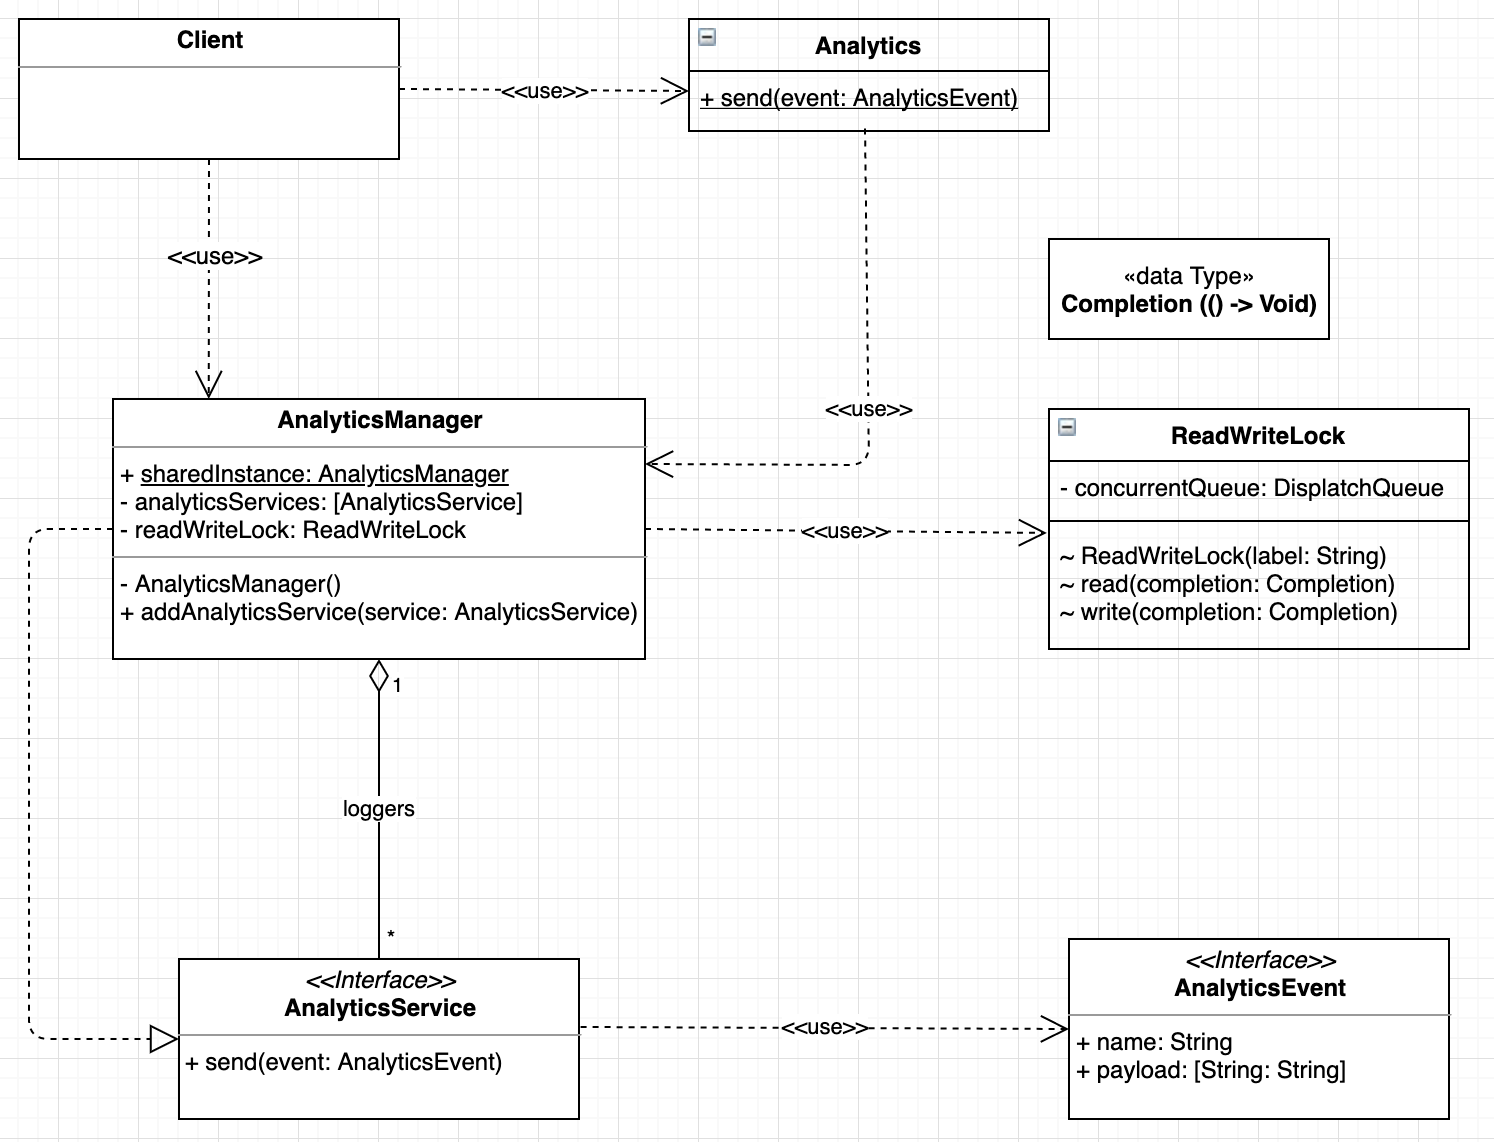
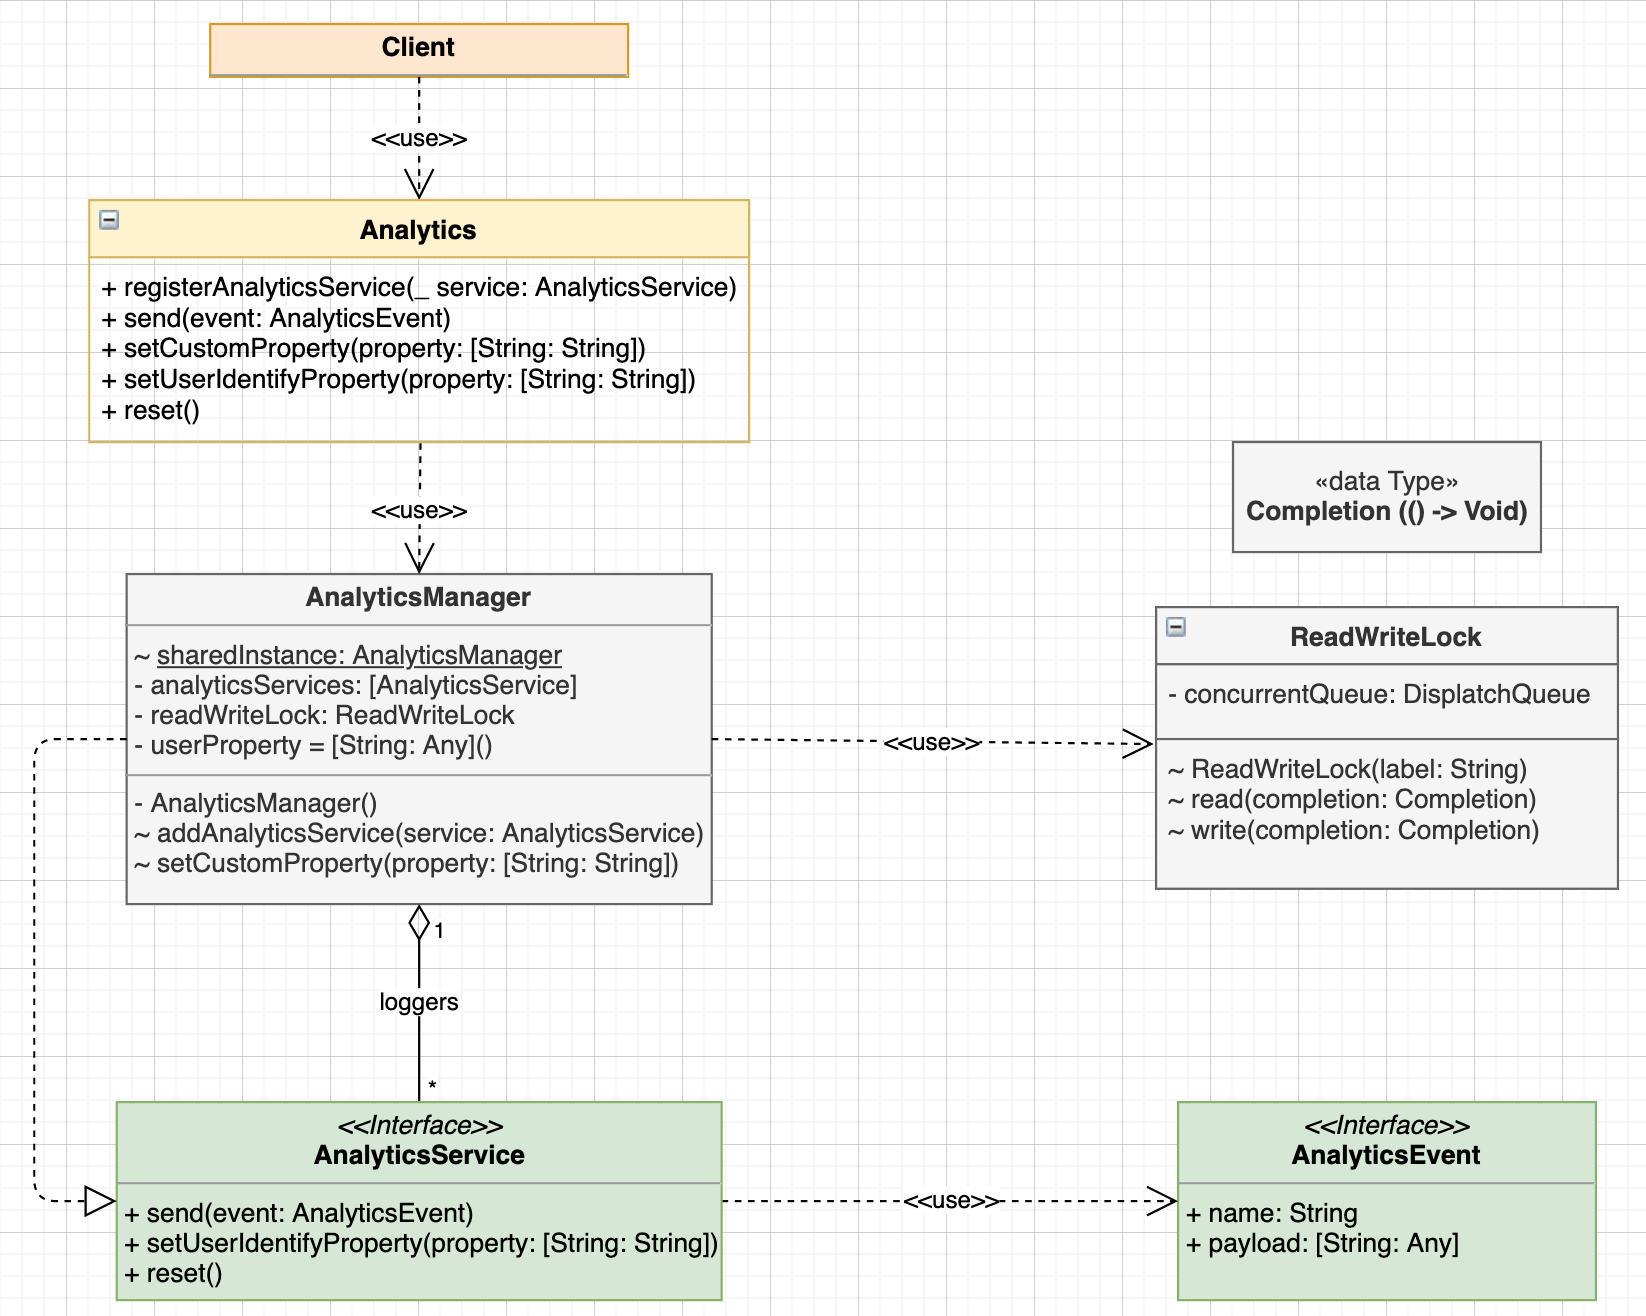
feat: support identify user and custom properties for tracking (#6)
Support identify user, custom properties to help tracking more personalized data

BREAKING CHANGE:
`Client` only interact with the framework via `Analytics` instead of mix of `Analytics` and `AnalyticsManager` as previous versions

diff --git a/DLAnalytics/Impl/AnalyticsManager.swift b/DLAnalytics/Impl/AnalyticsManager.swift
@@ -8,12 +8,15 @@
 
 import Foundation
 
-// MARK: - Open Class
-public final class AnalyticsManager: AnalyticsService {
-    public static let sharedInstance = AnalyticsManager()
+// MARK: - AnalyticsManager
+final class AnalyticsManager {
+	
+	static var sharedInstance = AnalyticsManager()
     
     private(set) var analyticsServices: [AnalyticsService] = []
     private let readWriteLock = ReadWriteLock(label: "DLAnalyticsLock")
+	
+	private var userProperty = [String: Any]()
     
     private init() {}
     
@@ -21,22 +24,65 @@ public final class AnalyticsManager: AnalyticsService {
     ///
     /// - parameter service: An implementation of AnalyticsService.
     /// - returns: Void.
-    public func addAnalyticsService(_ service: AnalyticsService) {
+    func addAnalyticsService(_ service: AnalyticsService) {
         readWriteLock.write {
             analyticsServices.append(service)
         }
     }
-    
-    /// Send an Event to Analytics service.
-    /// This function will invoke all its childens to perform sending event.
-    ///
-    /// - returns: Void
-    public func send(event: AnalyticsEvent) {
-        var services = [AnalyticsService]()
-        readWriteLock.read {
-            services = self.analyticsServices
-        }
-        
-        services.forEach { $0.send(event: event) }
-    }
+	
+	/// To support personalization better we need to add more general properties that share with all events
+	func setCustomizedProperty(_ property: [String: Any]) {
+		userProperty.merge(dict: property)
+	}
+}
+
+// MARK: - CombineEvent
+public struct CombineEvent: AnalyticsEvent {
+	public var name: String
+	public var payload: [String: Any]
+}
+
+// MARK: - AnalyticsService Implementation
+extension AnalyticsManager: AnalyticsService {
+	/// To support identify the user we need to help set these properties as global properties
+	func setUserIdentifyProperty(_ property: [String: String]) {
+		var services = [AnalyticsService]()
+		readWriteLock.read {
+			services = self.analyticsServices
+		}
+		
+		services.forEach {
+			$0.setUserIdentifyProperty(property)
+		}
+	}
+	
+	/// Reset all data related to the user e.g user logout
+	func reset() {
+		var services = [AnalyticsService]()
+		readWriteLock.read {
+			services = self.analyticsServices
+		}
+		
+		services.forEach {
+			$0.reset()
+		}
+	}
+	
+	/// Send an Event to Analytics service.
+	/// This function will invoke all its childens to perform sending event.
+	///
+	/// - returns: Void
+	func send(event: AnalyticsEvent) {
+		var services = [AnalyticsService]()
+		readWriteLock.read {
+			services = self.analyticsServices
+		}
+		
+		services.forEach {
+			var combinedPayload = userProperty
+			combinedPayload.merge(dict: event.payload)
+			let combinedEvent = CombineEvent(name: event.name, payload: combinedPayload)
+			$0.send(event: combinedEvent)
+		}
+	}
 }

diff --git a/DLAnalytics/Model/Analytics.swift b/DLAnalytics/Model/Analytics.swift
@@ -9,8 +9,28 @@
 import Foundation
 
 public enum Analytics {
+	/// Register an imlementation of Analytics Services as consumer e.g MixPanel, Firebase, Instabug, etc..
+	public static func registerAnalyticsService(_ service: AnalyticsService) {
+		AnalyticsManager.sharedInstance.addAnalyticsService(service)
+	}
+	
     /// Allow Client to send an event via.
     public static func send(event: AnalyticsEvent) {
         AnalyticsManager.sharedInstance.send(event: event)
     }
+	
+	/// To support personalization better we need to add more general properties that share with all events
+	public static func setCustomizedProperty(_ property: [String: Any]) {
+		AnalyticsManager.sharedInstance.setCustomizedProperty(property)
+	}
+	
+	/// To support identify the user we need to help set these properties as global properties
+	public static func setUserIdentifyProperty(_ property: [String: String]) {
+		AnalyticsManager.sharedInstance.setUserIdentifyProperty(property)
+	}
+	
+	/// Reset all data related to the user e.g user logout
+	public static func reset() {
+		AnalyticsManager.sharedInstance.reset()
+	}
 }

diff --git a/DLAnalytics/Protocol/AnalyticsService.swift b/DLAnalytics/Protocol/AnalyticsService.swift
@@ -9,5 +9,12 @@
 import Foundation
 
 public protocol AnalyticsService {
+	/// To support identify the user we need to help set these properties as global properties
+	func setUserIdentifyProperty(_ property: [String: String])
+	
+	/// Reset all data related to the user e.g user logout
+	func reset()
+	
+	/// Send an event to Analytics
     func send(event: AnalyticsEvent)
 }

diff --git a/DLAnalytics/Extension/Dictionary.swift b/DLAnalytics/Extension/Dictionary.swift
@@ -1,0 +1,17 @@
+//
+//  Dictionary.swift
+//  DLAnalytics
+//
+//  Created by LeNgocDuy on 9/24/21.
+//  Copyright © 2021 askbills. All rights reserved.
+//
+
+import Foundation
+
+public extension Dictionary {
+	mutating func merge(dict: [Key: Value]) {
+		for (key, value) in dict {
+			updateValue(value, forKey: key)
+		}
+	}
+}

diff --git a/DLAnalytics/Protocol/AnalyticsEvent.swift b/DLAnalytics/Protocol/AnalyticsEvent.swift
@@ -10,5 +10,5 @@ import Foundation
 
 public protocol AnalyticsEvent {
     var name: String { get }
-    var payload: [String: String] { get }
+    var payload: [String: Any] { get }
 }

diff --git a/README.md b/README.md
@@ -26,15 +26,25 @@ An abstract Analytics Framework supports:
 
 ```
 class ClientAnalyticsImpl: AnalyticsService {
-    func send(event: AnalyticsEvent) {
-        print("TODO: Invoke your special API via SDK: name = \(event.name), payload = \(event.payload)")
-    }
+    func setUserIdentifyProperty(_ property: [String : String]) {
+		print("setUserIdentifyProperty: To support identify the user")
+	}
+	
+	func reset() {
+		print("reset: To reset all data related to the user e.g user logout")
+	}
+	
+	func send(event: AnalyticsEvent) {
+        // Here is the specific Analytics implementation e.g FireBaseAnalytics, MixPanel, etc.
+		print("### Send an event name: \(event.name), payload = \(event.payload)")
+	}
 }
 ```
 
 2. Declare your custom event.
 
 ```
+// MARK: - Support dynamic configurable payload for an event
 struct InputOTPEvent: AnalyticsEvent {
     private(set) var payload: [String: String]
     
@@ -42,13 +52,24 @@ struct InputOTPEvent: AnalyticsEvent {
         return "InputOTP"
     }
 
-    static func inputOTPWrong() -> InputOTPEvent {
-        return InputOTPEvent(payload: ["OTPInvalid": "1"])
-    }
-
     static func inputOTPSuccess() -> InputOTPEvent {
         return InputOTPEvent(payload: ["OTPValid": "1"])
     }
+}
+
+// MARK: - Enum support static configurable payload for an event
+@frozen
+enum CheckoutEvent: String, AnalyticsEvent {
+	case success = "Checkout_Success"
+	case error = "Checkout_Error"
+
+	internal var payload: [String: Any] {
+		return [:]
+	}
+	
+	var name: String {
+		return rawValue
+	}
 }
 ```
 
@@ -56,7 +77,7 @@ struct InputOTPEvent: AnalyticsEvent {
 
 ```
 let analyticsService = ClientAnalyticsImpl()
-AnalyticsManager.sharedInstance.addAnalyticsService(analyticsService)
+Analytics.registerAnalyticsService(analyticsService)
 ```
 
 ### Use
@@ -64,9 +85,11 @@ AnalyticsManager.sharedInstance.addAnalyticsService(analyticsService)
 ```
 /// Simulate tracking event InputOTP success
 Analytics.send(event: InputOTPEvent.inputOTPSuccess())
+Analytics.send(event: CheckoutEvent.success)
 
-/// Output: In your real implementation it is tracked on dashboard of specific Analytics (Ex: FireBaseAnalytics, MixPanel...)
-TODO: Invoke your special API via SDK: name = InputOTP, payload = ["OTPValid": "1"]
+/// Output:
+Send an event name: InputOTP, payload = ["OTPValid": "1"]
+Send an event name: Checkout_Success, payload = [:]
 ```
 
 ## Installation
